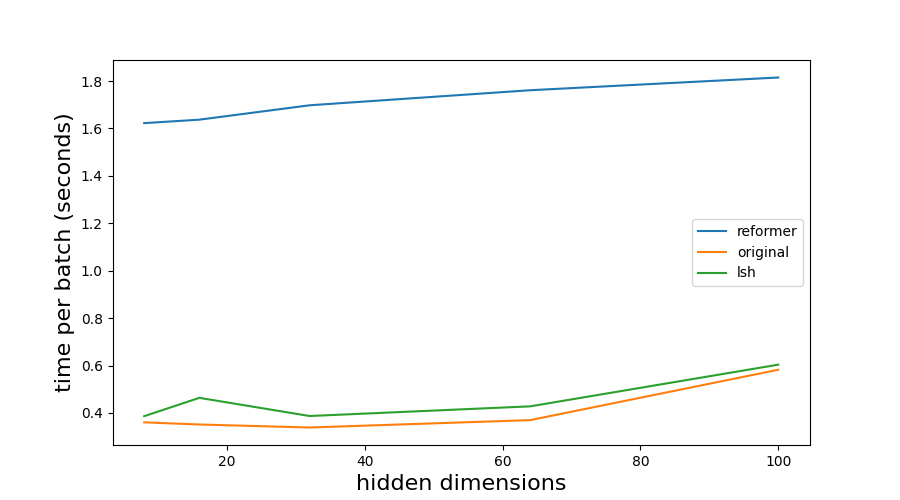
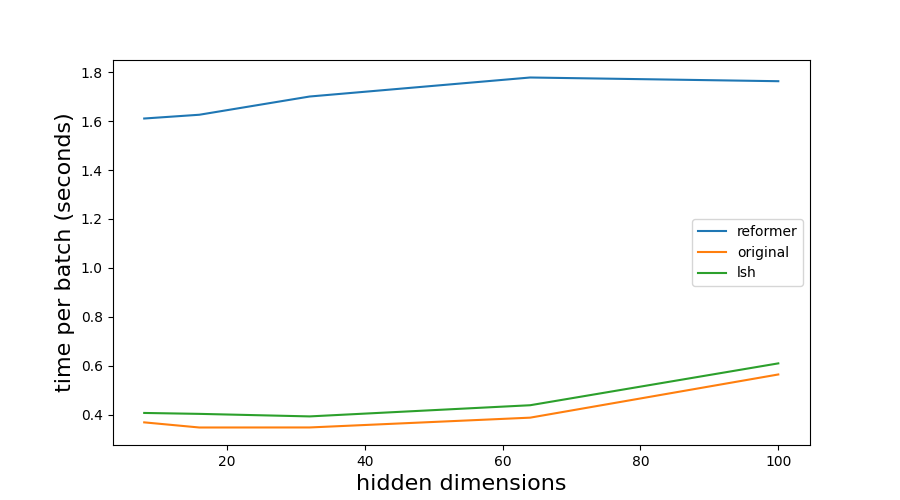
slight changes made to get time csv and plot

diff --git a/squad/get_scalar_from_log_file.py b/squad/get_scalar_from_log_file.py
@@ -1,5 +1,7 @@
 from tensorboard.backend.event_processing.event_accumulator import EventAccumulator
 import glob
+import pandas as pd
+
 import numpy as np
 import re
 import os
@@ -19,8 +21,10 @@ regex = re.compile('^events.out.tfevents*')
 hidden_dims = [8, 16, 32, 64, 100, 128]#, 256]#, #200, 256]#, 512]
 styles = ["reformer", "original", "lsh"]
 
-SCALARS_OF_INTEREST = ["train/MEMORY", "train/TIME"]
-nice_name = ["memory per batch (GB)", "time per batch (seconds)"]
+#SCALARS_OF_INTEREST = ["train/MEMORY", "train/TIME"]
+#nice_name = ["memory per batch (GB)", "time per batch (seconds)"]
+SCALARS_OF_INTEREST = ["train/TIME"]
+nice_name = ["time per batch (seconds)"]
 
 
 def get_log_file_path(dims, style):
@@ -35,6 +39,8 @@ def get_log_file_path(dims, style):
             if regex.match(f):
                 return os.path.join(log_dir, f)
     return None
+
+df_dict = dict()
 
 for style in styles:
     scalars = {scalar: list() for scalar in SCALARS_OF_INTEREST}
@@ -55,9 +61,14 @@ for style in styles:
     for i,scalar in enumerate(scalars):
         plt.figure(num=i, figsize=FIGSIZE)
         plt.plot(hidden_dims[:len(scalars[scalar])], np.array(scalars[scalar]), label=style)
+
+    df_dict[style] = scalars[scalar]
 for i,scalar in enumerate(SCALARS_OF_INTEREST):
     plt.figure(num=i, figsize=FIGSIZE) 
     plt.legend()
     plt.ylabel(nice_name[i], fontsize=16)
     plt.xlabel('hidden dimensions', fontsize=16)
     plt.savefig('{}.png'.format(scalar.split("/")[-1]))
+
+df = pd.DataFrame.from_dict(df_dict)
+df.to_csv('time.csv')

diff --git a/squad/plot_wandb.py b/squad/plot_wandb.py
@@ -6,6 +6,7 @@ import os
 import pdb
 import matplotlib.pyplot as plt
 import wandb
+import pandas as pd
 #import argparse
 
 # finish this off later.
@@ -22,8 +23,8 @@ styles = ["reformer", "original", "lsh"]
 api = wandb.Api()
 ENTITY = "andrewgaut"
 PROJECT = "inquisition-squad"
-VALUES = ["system.gpu.0.memoryAllocated"]
-NAMES = ["GPU Memory Allocation (%)"]
+VALUES = ["system.gpu.0.memoryAllocated", "time"]
+NAMES = ["GPU Memory Allocation (%)", "time (s)"]
 
 stored_values = [dict() for _ in range(len(VALUES))] 
 
@@ -36,13 +37,13 @@ for run in runs:
     history = run.history(stream="system")
 
     for i, stored_value in enumerate(stored_values):
+
         if style not in stored_value:
             stored_value[style] = dict()
-        stored_value[style][dims] = history[VALUES[i]][0]
-
-
-
-
+        if VALUES[i] == "time":
+            stored_value[style][dims] = run.summary['_wandb']["runtime"]
+        else:
+            stored_value[style][dims] = history[VALUES[i]][0]
 
 
 for style in styles:
@@ -60,3 +61,10 @@ for i,value in enumerate(VALUES):
     plt.ylabel(NAMES[i], fontsize=16)
     plt.xlabel('hidden dimensions', fontsize=16)
     plt.savefig('{}.png'.format(value.split(".")[-1]))
+
+
+df = pd.DataFrame.from_dict(stored_values[0])
+df.to_csv('test.csv')
+
+df = pd.DataFrame.from_dict(stored_values[1])
+df.to_csv('time.csv')
